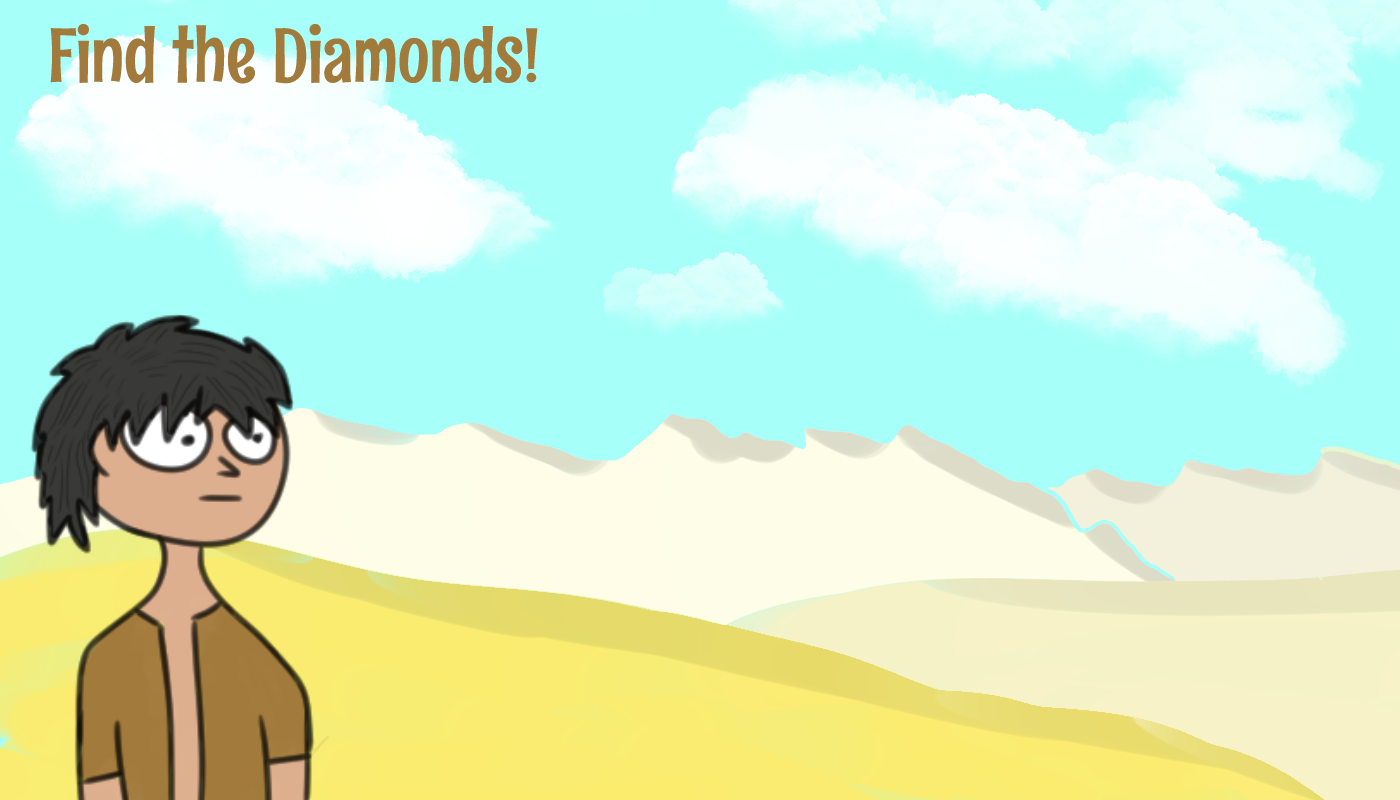
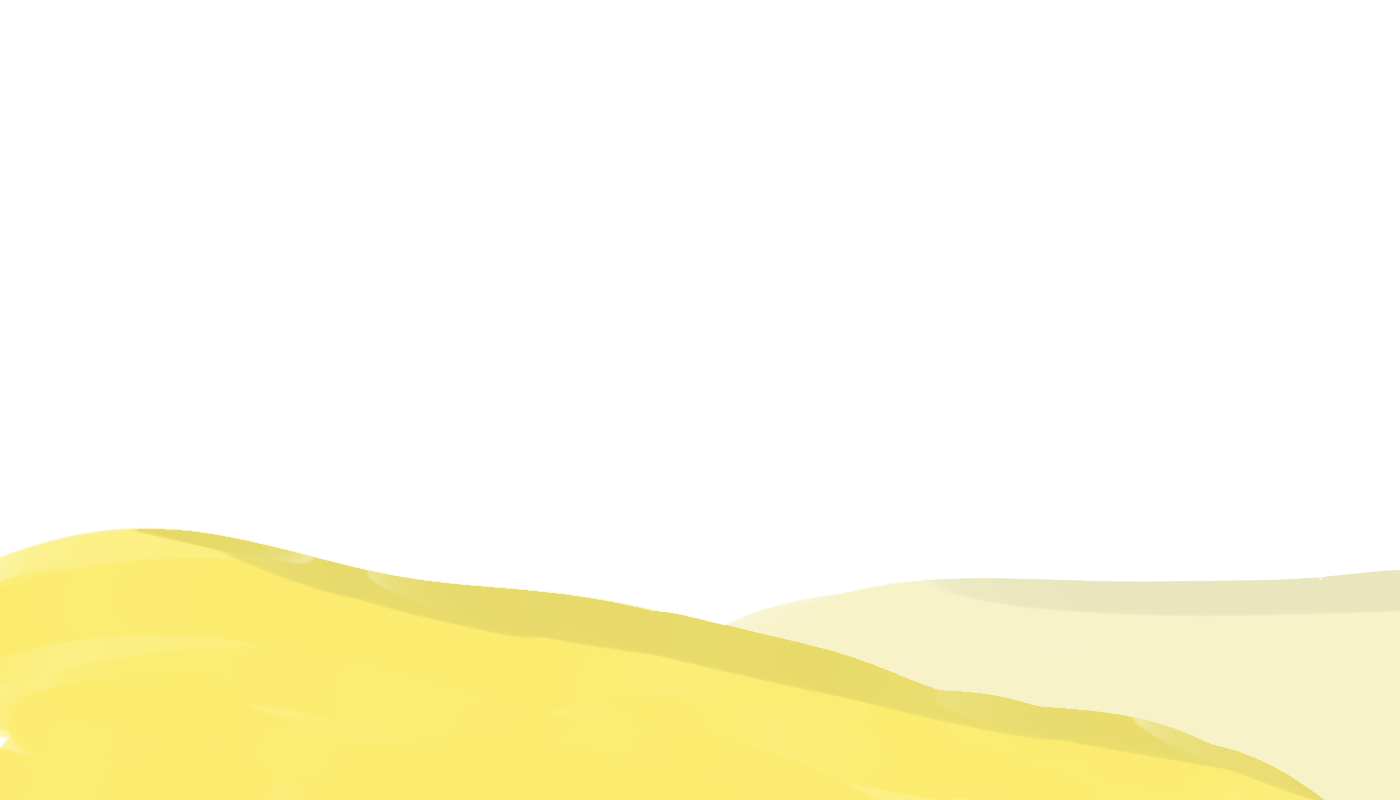
added the paralax effect

diff --git a/story/src/view/Principal.java b/story/src/view/Principal.java
@@ -16,16 +16,22 @@ public class Principal extends PApplet
 		size(1400, 800);
 	}
 	
-	PImage startScreen, backGround, gameScreen, endScreen;
+	PImage startScreen, backGround, gameScreen, endScreen, paralax, charAndText, sky;
 	boolean firstScene, secondScene, thirdScene;
+	int paralaxX;
 	
 	@Override
 	public void setup() //void Start
 	{
 		startScreen = loadImage("backGround.png");
 		gameScreen = loadImage("game screen.png");
+		paralax = loadImage("paralax.png");
+		charAndText = loadImage("characterANDtext.png");
+		sky = loadImage("sky.png");
 		
 		firstScene = true;
+		
+		paralaxX = -40;
 	}
 	
 	@Override
@@ -51,7 +57,12 @@ public class Principal extends PApplet
 		
 		if(secondScene)
 		{
+			paralaxX = (mouseX - 1400) / 15;
+			
+			image(sky, 0, 0);
+			image(paralax, paralaxX, 0);
 			image(gameScreen, 0, 0);
+			image(charAndText, 0, 0);
 			firstScene = false;
 		}
 	}
